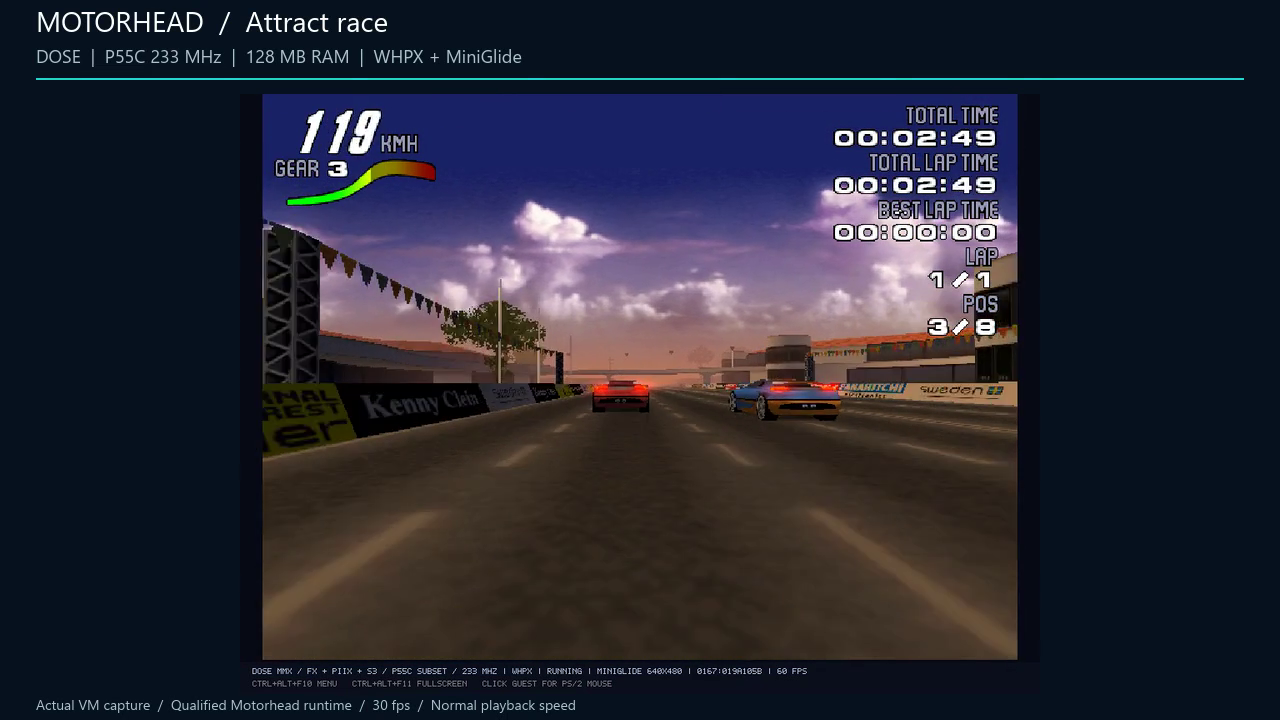
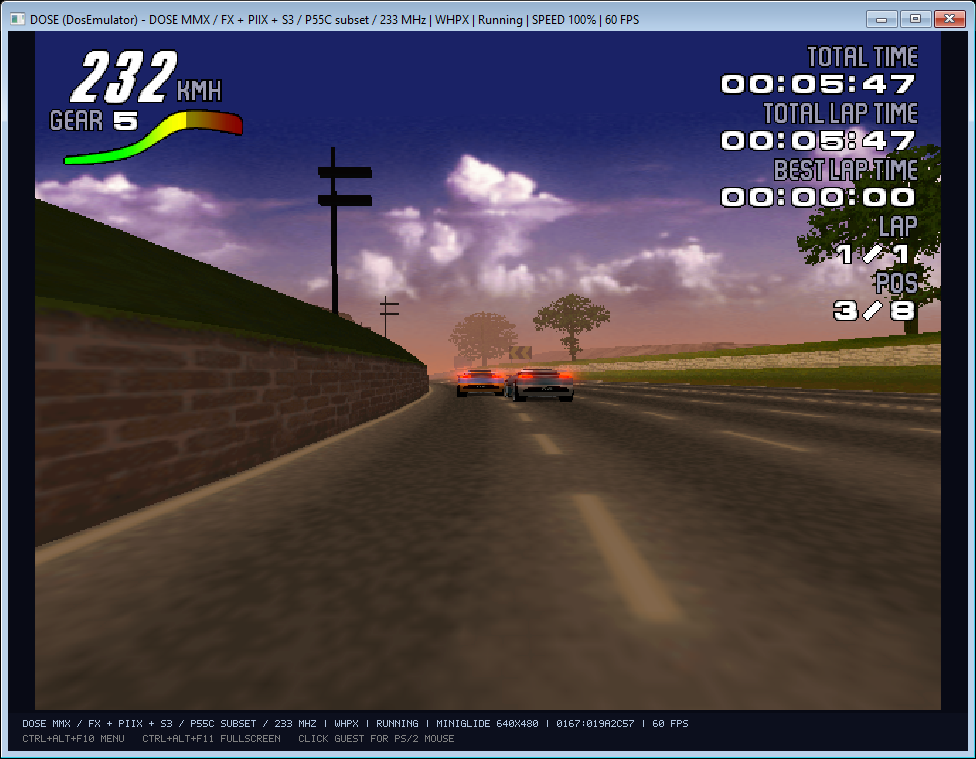
Publish releases on main and replace video-derived screenshots

diff --git a/src/DOSEmulator/Updates/StartupUpdateChecker.cs b/src/DOSEmulator/Updates/StartupUpdateChecker.cs
@@ -37,7 +37,7 @@ namespace DOSEmulator.Updates
     /// </summary>
     public static class StartupUpdateChecker
     {
-        private const string LatestReleaseApiUrl = "https://api.github.com/repos/n1k0m0/DOSEmulator-Releases/releases/latest";
+        private const string LatestReleaseApiUrl = "https://api.github.com/repos/n1k0m0/DOSEmulator/releases/latest";
         private const string UserAgent = "DOSEmulator-UpdateChecker";
         private const int StartupDelayMilliseconds = 2500;
         private const int DownloadBufferSize = 81920;

diff --git a/README.md b/README.md
@@ -4,7 +4,7 @@
 
 DOSE is a personal IBM PC emulator written in C# for exploring DOS-era hardware, Windows 95/98, and classic games. It combines a software x86 engine with optional Windows Hypervisor Platform (WHPX) acceleration, a configurable PC, sound and video devices, snapshots, and a single-window settings overlay. Like my [C64Emulator](https://github.com/n1k0m0/C64Emulator), it is a hands-on emulator project and an opportunity to learn from real software and hardware behavior.
 
-**Latest Windows release:** [DOSE Emulator 0.1.1](https://github.com/n1k0m0/DOSEmulator-Releases/releases/tag/v0.1.1) provides a self-contained x64 setup. Installed copies check GitHub Releases at startup and ask before downloading an update. The [installer and update notes](docs/INSTALLER-AND-UPDATES.md) describe what is included.
+**Latest Windows release:** [DOSE Emulator 0.1.2](https://github.com/n1k0m0/DOSEmulator/releases/tag/v0.1.2) provides a self-contained x64 setup. Installed copies check this repository's GitHub Releases at startup and ask before downloading an update. The [installer and update notes](docs/INSTALLER-AND-UPDATES.md) describe what is included.
 
 **Highlights**
 
@@ -18,11 +18,11 @@ DOSE is a personal IBM PC emulator written in C# for exploring DOS-era hardware,
 
 ## Screenshots
 
-These are captures of actual DOSE guests and games, not generated mockups. The Windows 95 image shows a guest display-change prompt; the Unreal, GLQuake, and Motorhead frames come from a recorded run on separate VM safety copies. Games and operating-system images are **not** distributed with DOSE.
+The Windows and game images were captured directly from the DOSE emulator window on separate VM safety copies. None of the screenshots below were extracted from a video or presentation. Games and operating-system images are **not** distributed with DOSE.
 
 | FreeDOS | Windows 95 | Windows 98 |
 | --- | --- | --- |
-| <img src="docs/screenshots/freedos-prompt.png" alt="FreeDOS prompt in DOSE" width="300"> | <img src="docs/screenshots/win95-settings-prompt.png" alt="Windows 95 desktop and display-change prompt" width="300"> | <img src="docs/screenshots/win98-desktop.png" alt="Windows 98 desktop in DOSE" width="300"> |
+| <img src="docs/screenshots/freedos-prompt.png" alt="FreeDOS prompt in DOSE" width="300"> | <img src="docs/screenshots/win95-desktop.png" alt="Windows 95 desktop in DOSE" width="300"> | <img src="docs/screenshots/win98-desktop.png" alt="Windows 98 desktop in DOSE" width="300"> |
 
 | Unreal with MiniGlide | GLQuake | Motorhead |
 | --- | --- | --- |
@@ -34,7 +34,7 @@ These are captures of actual DOSE guests and games, not generated mockups. The W
 
 ## Getting started
 
-1. Download and run the [Windows x64 setup](https://github.com/n1k0m0/DOSEmulator-Releases/releases/latest). The installer contains DOSE, its own firmware, and the pinned native libraries used for NAT and Host-only networking. It contains no commercial OS, game, or driver media.
+1. Download and run the [Windows x64 setup](https://github.com/n1k0m0/DOSEmulator/releases/latest). The installer contains DOSE, its own firmware, and the pinned native libraries used for NAT and Host-only networking. It contains no commercial OS, game, or driver media.
 2. Start DOSE and open the menu with **Ctrl+Alt+F10**. Configure a machine and attach your own bootable floppy, hard disk, or ISO image. Use **Ctrl+Alt+F11** for fullscreen.
 3. Save the machine definition and keep its disk image and `.cow` journal together. After shutting down the guest, the optional Disk Explorer can import or export files offline.
 
@@ -67,6 +67,6 @@ Build a self-contained setup with Inno Setup 6:
 ./scripts/build-installer.ps1
 ```
 
-The source repository and its release assets do not include personal VMs, Windows or DOS installation media, games, proprietary guest drivers, or a Glide-2 host library. Existing portable VM folders retain their pinned runtime until deliberately upgraded. The public setup releases live in [DOSEmulator-Releases](https://github.com/n1k0m0/DOSEmulator-Releases).
+The source repository and its release assets do not include personal VMs, Windows or DOS installation media, games, proprietary guest drivers, or a Glide-2 host library. Existing portable VM folders retain their pinned runtime until deliberately upgraded. Setup releases live in this repository's [Releases](https://github.com/n1k0m0/DOSEmulator/releases).
 
 DOSE source is licensed under [Apache 2.0](LICENSES/Apache-2.0.txt). Bundled dependency provenance and license notices are in [THIRD-PARTY-NOTICES.md](THIRD-PARTY-NOTICES.md).

diff --git a/docs/INSTALLER-AND-UPDATES.md b/docs/INSTALLER-AND-UPDATES.md
@@ -2,7 +2,7 @@
 
 The Windows x64 installer is built with `scripts/build-installer.ps1` and Inno Setup 6. The numeric version is read from `VERSION`; the published GUI assembly and setup must report that version. The release asset is named `DOSEmulator-<version>-win-x64-setup.exe` and its GitHub tag is `v<version>`.
 
-The application sources remain in the private `n1k0m0/DOSEmulator` repository. Public installer assets are published separately in `n1k0m0/DOSEmulator-Releases` so an ordinary installed emulator can query GitHub Releases without a GitHub token. This repository contains only release binaries and release notes. Do not add VM directories, original disks, CDs, games, snapshots, user settings or private fixtures to the installer.
+The application source and public installer assets are both published in `n1k0m0/DOSEmulator`. Installed copies query that repository's GitHub Releases without a GitHub token. Do not add VM directories, original disks, CDs, games, snapshots, user settings or private fixtures to the installer.
 
 The installer publishes a self-contained .NET 10 GUI, own embedded firmware, required managed libraries, pinned native NAT/Host-only libraries and their notices. It installs for the current Windows user under `%LOCALAPPDATA%\Programs\DOSEmulator`. VM folders and host settings under `%APPDATA%\DOSEmulator` are outside the installer directory. It does not bundle a VM or original operating system. Optional Npcap and external Glide host libraries remain separate.
 
@@ -10,4 +10,4 @@ The published GUI contains the current `main` WHPX engine, software fallback, Mi
 
 Only an installer-created `dose-installed.txt` enables the startup check. The check starts in the background after launch, fetches the latest public release, compares numeric versions, asks before downloading, verifies the GitHub asset SHA-256 digest, then starts Setup after the emulator has closed and released media. If GitHub is unavailable, normal startup continues. The updater never stores a GitHub token.
 
-To release a new version: update `VERSION`, run the complete product checks, build the installer in a clean release workspace, inspect its payload and SHA-256 digest, push reviewed source to the private repository, then create the corresponding public GitHub Release with the setup asset. Keep every earlier release available for rollback. The first release still needs an installed-app update smoke test after publication.
+To release a new version: update `VERSION`, run the complete product checks, build the installer in a clean release workspace, inspect its payload and SHA-256 digest, push reviewed source to `main`, then create the corresponding GitHub Release in the same repository with the setup asset. Keep earlier releases available for rollback. Versions 0.1.0 and 0.1.1 checked the former separate release repository, so those installed copies need one manual update to 0.1.2. From 0.1.2 onward, the startup checker uses the main repository.
